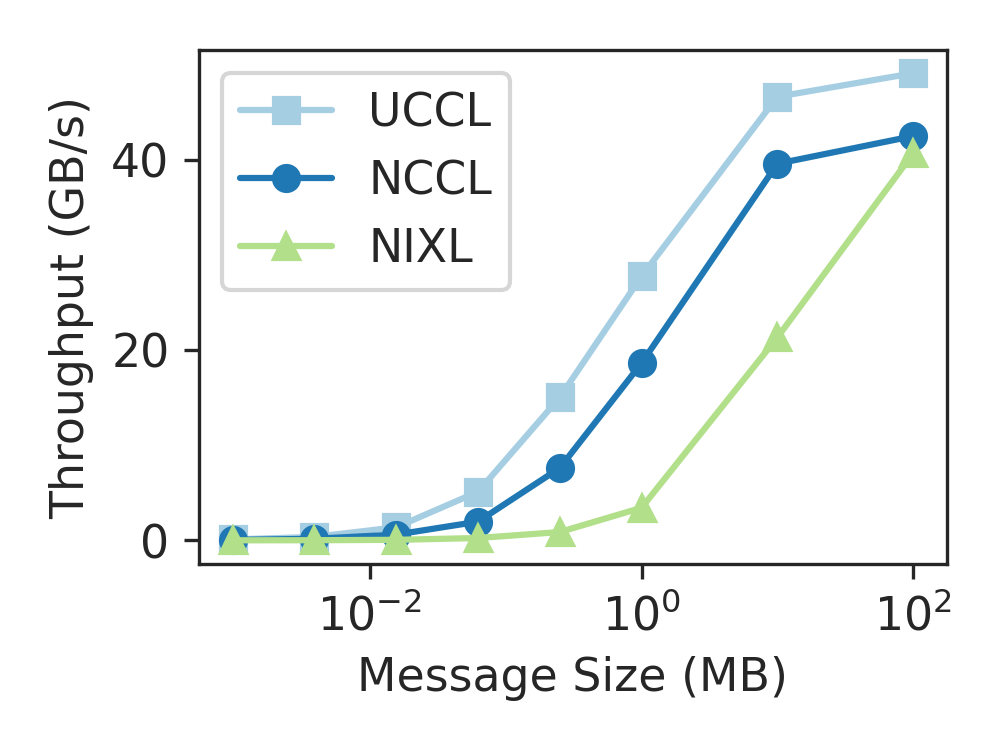
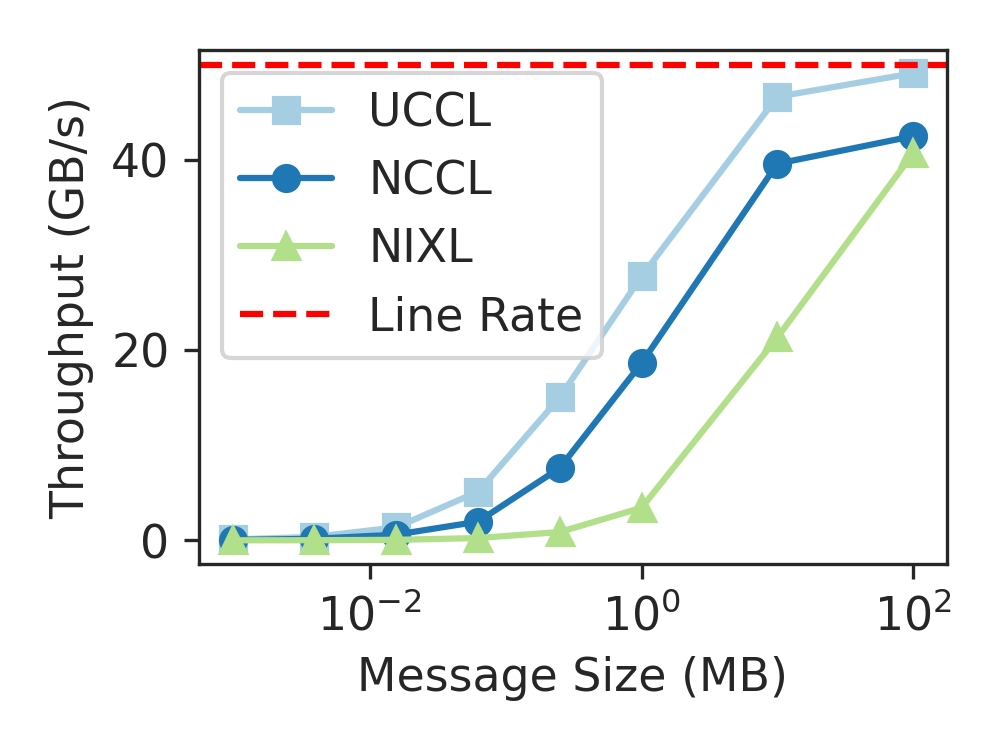
update nixl

Changed region(s): [[0.186, 0.0613, 0.961, 0.4907]]

diff --git a/examples/python/system_comparison_plot.py b/examples/python/system_comparison_plot.py
@@ -54,6 +54,9 @@ plt.semilogx(msg_sizes_mb, nccl_sendrecv, marker='o', label='NCCL')
 # plt.semilogx(msg_sizes_mb, ucx_perftest, marker='^', label='UCX_perftest')
 plt.semilogx(msg_sizes_mb, nixl_perftest, marker='^', label='NIXL')
 
+# Draw a red dotted curve at 50 GB/s
+plt.axhline(y=50, color='red', linestyle='--', label='Line Rate')
+
 plt.xlabel('Message Size (MB)')
 plt.ylabel('Throughput (GB/s)')
 # plt.title('Bandwidth vs Message Size')